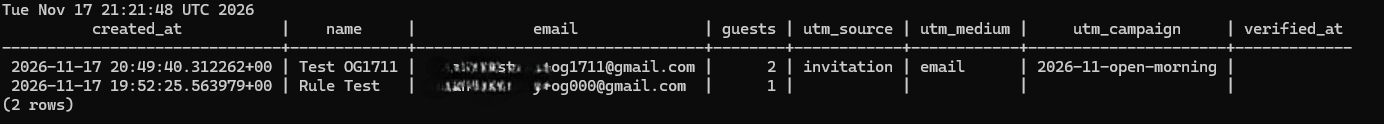
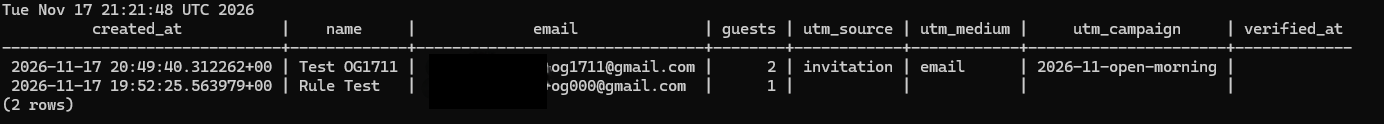
Evidence W7: rows 5, 13, 14; invitations, status email; masking and domain fixes for #107

Changed region(s): [[0.3107, 0.629, 0.4039, 0.75], [0.3107, 0.4839, 0.4039, 0.6048]]

diff --git a/docs/evidence/w7/README.md b/docs/evidence/w7/README.md
@@ -6,7 +6,7 @@
 | 2 | Board and week-start comment | [img/23-board.png](img/23-board.png) (task 27, Tue 17 Nov, before 16:00); [the comment on #114](https://github.com/eitan-dardik/northline-dental-website/issues/114#issuecomment-6945254828) |
 | 3 | Ops log | [#140](https://github.com/eitan-dardik/northline-dental-website/issues/140), one comment each day: Mon 16 Nov 09:12, Tue 17 Nov 10:55, Wed 18 Nov 09:47 (plus the restart notes, 09:43–09:46, #183), Thu 19 Nov 08:24 Israel |
 | 4 | Kit configured, staging, CI | Kit as it came: [PR #150](https://github.com/eitan-dardik/northline-dental-website/pull/150); configured: [22b66db](https://github.com/eitan-dardik/northline-dental-website/commit/22b66db) ([#152](https://github.com/eitan-dardik/northline-dental-website/issues/152)), [diff against the kit](https://github.com/eitan-dardik/northline-dental-website/compare/5b699eb...22b66db); decision record line: [PR #153](https://github.com/eitan-dardik/northline-dental-website/pull/153); staging and CI: [PR #155](https://github.com/eitan-dardik/northline-dental-website/pull/155), [green CI run on `event`](https://github.com/eitan-dardik/northline-dental-website/actions/runs/43943229108); the main site's deploy unchanged; details: [see below](#row-4-kit-configured-staging-ci) |
-| 5 | Releases v0.1.0, v0.2.0, v0.3.0, v1.0.0 | [event-v0.1.0](https://github.com/eitan-dardik/northline-dental-website/releases/tag/event-v0.1.0) (Mon 16 Nov, on `76af798`); [event-v0.2.0](https://github.com/eitan-dardik/northline-dental-website/releases/tag/event-v0.2.0) (Wed 18 Nov, on `b2ea3df`); [event-v0.3.0](https://github.com/eitan-dardik/northline-dental-website/releases/tag/event-v0.3.0) (Wed 18 Nov, on `9dd0aec`). To do: event-v1.0.0 |
+| 5 | Releases v0.1.0, v0.2.0, v0.3.0, v1.0.0 | [event-v0.1.0](https://github.com/eitan-dardik/northline-dental-website/releases/tag/event-v0.1.0) (Mon 16 Nov, on `76af798`); [event-v0.2.0](https://github.com/eitan-dardik/northline-dental-website/releases/tag/event-v0.2.0) (Wed 18 Nov, on `b2ea3df`); [event-v0.3.0](https://github.com/eitan-dardik/northline-dental-website/releases/tag/event-v0.3.0) (Wed 18 Nov, on `9dd0aec`); [event-v1.0.0](https://github.com/eitan-dardik/northline-dental-website/releases/tag/event-v1.0.0) (Thu 19 Nov, production, on `57dd9a8`, with How to undo). Also the main site's v0.7.0 with the banner ([#196](https://github.com/eitan-dardik/northline-dental-website/pull/196), tag `v0.7.0` on `2fa77a8`) |
 | 6 | Migration, rules proof, phone read-back | [the migration](https://github.com/eitan-dardik/northline-dental-website/blob/dev/supabase/migrations/20261117191400_event_registrations.sql) (PR [#185](https://github.com/eitan-dardik/northline-dental-website/pull/185)); insert `201` / read `401`; the row: 22:49:40 Israel, `utm_source invitation`; details: [see below](#row-6-migration-rules-proof-phone-read-back) |
 | 7 | Confirmation, confirm link and deliverability | the confirmation for `+og003`: accepted 12 s after registering, `verified_at` 10:16:00 Israel; details: [see below](#row-7-confirmation-confirm-link-and-deliverability). [email-check.md](email-check.md) (task 35: Gmail and Outlook, both Inbox, SPF/DKIM/DMARC pass). The `+og006` reminder to confirm: sent Thu 19 Nov, 00:05 Israel, 24 h after registering, link not pressed |
 | 8 | Umami events, UTM links, QR | every event from laptop and phone, no token or personal data (0), the confirm view without `t=`; all four links in Umami (`invitation`, `reminder`, `poster`, `website`); the poster QR to Denise at 12:53 ([#114](https://github.com/eitan-dardik/northline-dental-website/issues/114#issuecomment-6976434725)), [img/34-qr.png](img/34-qr.png); the banner ([PR #192](https://github.com/eitan-dardik/northline-dental-website/pull/192)); details: [see below](#row-8-umami-events-utm-links-qr) |
@@ -14,8 +14,8 @@
 | 10 | Screenshots and Denise's approval | six screenshots on [#114, Wed 18 Nov 18:33](https://github.com/eitan-dardik/northline-dental-website/issues/114#issuecomment-6984843417), asking "Can this go live on Thursday?"; Denise's answer: [Yes, it can go live on Thursday](https://github.com/eitan-dardik/northline-dental-website/issues/114#issuecomment-6987822915) (Wed 18 Nov) |
 | 11 | Run of show draft | [RUN-OF-SHOW.md](https://github.com/eitan-dardik/northline-dental-website/blob/dev/docs/event/RUN-OF-SHOW.md) (first draft, Wed 18 Nov, [#194](https://github.com/eitan-dardik/northline-dental-website/pull/194)); in `docs/event` on `dev`, not the event branch (the CEO, [#171](https://github.com/eitan-dardik/northline-dental-website/issues/171)) |
 | 12 | Restore drill and decision brief | [restore.md](restore.md) (backup 09:25 UTC = 11:25 Israel, before the release; `leads` 0 = 0 rows, 8 columns, 1 policy, 2 constraints on both sides); [decision-brief.md](decision-brief.md) (go, written before the merge) |
-| 13 | Production release | To do: times merged, live, checked |
-| 14 | Invitations and status email | To do: invitations.md; status-email.md |
+| 13 | Production release | [PR #195](https://github.com/eitan-dardik/northline-dental-website/pull/195) into `event-main`, approved by the CEO. Thu 19 Nov, Israel: migration on production 19:55 (dry run first: only `20261117191400_event_registrations.sql`); production mailer with `EVENT_URL` 20:14; **merged 20:16**; **on production 20:23** (Hostinger deploy Completed); **checked 20:35** (phone test as `+og006`: registered 20:30:58, confirmation 3 s later, confirm link 20:32:36, Umami events, check-in with the production desk code 20:35:03). Main site: #196 merged 20:48, banner live 20:53, the event page opened from it once (`utm_source=website` in Umami). All inside 16:00–22:00 |
+| 14 | Invitations and status email | [invitations.md](invitations.md) (108 reachable; **106 sent** Thu 23:11 – Fri 00:58; the last 2 (guests 107, 108) refused by Hostinger's sending limit, sent Fri morning; counts only); [status-email.md](status-email.md) (to Denise, [sent on #114](https://github.com/eitan-dardik/northline-dental-website/issues/114#issuecomment-7024116175)) |
 
 **Moved from Week 6** (W6 scorecard on feedback #7, 15 Nov: task 16 to Tue 17, task 14 to Wed 18, task 18 to Thu 19; task 16's time confirmed by the CEO's email of 15 Nov, 23:09: Tue 17, 23:59):
 
@@ -64,7 +64,7 @@
 
 **The main site's deploys** (hPanel, Mon 16 Nov, after the event deploy): production's newest is still `e18483f1` from 8 Nov; northline-stage's newest are the `dev` merges of #154 and #153.
 
-<img width="400" alt="production deployments" src="img/30-main-prod-deploys.png" /> <img width="400" alt="northline-stage deployments" src="img/30-main-stage-deploys.png" />
+<img width="400" alt="production deployments" src="img/30-main-stage-deploys.png" /> <img width="400" alt="northline-stage deployments" src="img/30-main-prod-deploys.png" />
 
 <img width="250" alt="phone: the top of the event page" src="img/30-staging-phone-top.jpg" /> <img width="250" alt="phone: Registration opens soon" src="img/30-staging-phone-soon.jpg" />
 
@@ -140,7 +140,7 @@ $ curl … "https://<staging API>/rest/v1/registrations?select=*"    # read
 
 ## Row 7: confirmation, confirm link and deliverability
 
-**The mailer (task 34, [#165](https://github.com/eitan-dardik/northline-dental-website/issues/165)):** [PR #187](https://github.com/eitan-dardik/northline-dental-website/pull/187) into `dev`. It sends the confirmation to every page registration without one (the kit's query 6) and one reminder to confirm 24 h later if the link was never pressed (query 8), with `registration_emails` as its "already sent" table, claim-first like `lead_emails`. It logs the mail server's reply for each email. Event emails only where `mailer.env` has `EVENT_URL`: on staging since Tue 17 Nov, 23:5x; production on Thursday. Deployed on staging only (staging and production build from the same clone; production not rebuilt).
+**The mailer (task 34, [#165](https://github.com/eitan-dardik/northline-dental-website/issues/165)):** [PR #187](https://github.com/eitan-dardik/northline-dental-website/pull/187) into `dev`. It sends the confirmation to every page registration without one (the kit's query 6) and one reminder to confirm 24 h later if the link was never pressed (query 8), with `registration_emails` as its "already sent" table, claim-first like `lead_emails`. It logs the mail server's reply for each email. Event emails only where `mailer.env` has `EVENT_URL`: on staging since Tue 17 Nov, 23:5x; on production since Thu 19 Nov, 20:14 (rebuilt with `--no-deps`, only the mailer), with the release (row 13).
 
 The mailer's log when it started (Tue 17 Nov; ids only, no personal data):
 
@@ -233,7 +233,7 @@ $ (staging) registrations from the page since 13:00                    →  4
 - **The poster QR** (`poster-qr.png` / `.svg`, made with `npx qrcode -e H` from the poster link): sent to Denise on [#114](https://github.com/eitan-dardik/northline-dental-website/issues/114#issuecomment-6976434725) at **12:53**, before her poster prints.
 - **The test:** a second QR from the same link with the staging address, scanned from about 1 m: the page opened with `utm_source=poster&utm_medium=qr`, and the registrations were stored under `poster`.
 - **In Umami:** `invitation`, `reminder` and `poster` (table above), and `website` from the banner (below).
-- **The banner** ([PR #192](https://github.com/eitan-dardik/northline-dental-website/pull/192)): one line under the main site's menu, on every page: "Open Morning, Tue 24 Nov: free smile checks. Register →", linking to the event page with the website tags. Its address comes from a build setting, `VITE_EVENT_URL`, set only on the staging site for now; production gets it after event-v1.0.0. Hidden once the event starts. Lighthouse (mobile, localhost): accessibility 100. Clicked on staging, Wed 18 Nov:
+- **The banner** ([PR #192](https://github.com/eitan-dardik/northline-dental-website/pull/192)): one line under the main site's menu, on every page: "Open Morning, Tue 24 Nov: free smile checks. Register →", linking to the event page with the website tags. Its address comes from a build setting, `VITE_EVENT_URL`, on staging since Wed 18 Nov; on production since Thu 19 Nov, 20:53, after event-v1.0.0 (row 13). Hidden once the event starts. Lighthouse (mobile, localhost): accessibility 100. Clicked on staging, Wed 18 Nov:
 
 ```
   israel  | url_path |                               url_query                                | utm_source
@@ -266,7 +266,7 @@ $ query 4 (staging)
 | Guest 2, a group of 2 | **35 s**: "Checked in: Test. Group of 2." Over the 30 s target: typing a long email on a phone keyboard. On the day the desk types from the printed list, on a tablet or laptop if they have one |
 | A walk-up (no email, new patient) | **34 s**, counted |
 | The page's count against query 3 | "3 of 11 registered · 1 walk-up" = registered 11, arrived 3, walk-ups 1 |
-| Found | the desk code set on Tue didn't match my password manager (likely a paste error into `read -rs`, which hides what's pasted). Set again with a length check (17 characters); the same check for production on Thursday |
+| Found | the desk code set on Tue didn't match my password manager (likely a paste error into `read -rs`, which hides what's pasted). Set again with a length check (17 characters); the production code (a different one) was set on Thu 19 Nov with the same check (23 characters) |
 
 ```
 $ query 3 (staging)

diff --git a/docs/evidence/w7/invitations.md b/docs/evidence/w7/invitations.md
@@ -1,0 +1,65 @@
+# Invitations: the Open Morning (W7 task 46, #175)
+
+Thu 19 – Fri 20 Nov 2026, Israel time (Toronto is 7 hours behind). Counts only: no names and no addresses in this file.
+
+## The counts
+
+| | |
+|---|---|
+| Reachable contacts ([LIST-CHECK.md](https://github.com/eitan-dardik/northline-dental-website/blob/dev/docs/event/LIST-CHECK.md)) | **108** |
+| Sent (accepted by the mail server, `250 2.0.0 OK`) | **106** of 108 |
+| Arrived (counted in the receiving mailbox) | **101** counted at 00:05 (guests 1–101, all in the Inbox; guest 081 arrived about 30 min after it was sent); 102–106 were sent after that count |
+| Not sent yet | **2**: guests **107, 108**, refused by Hostinger's sending limit (`451 4.7.1 Ratelimit "hostinger_out_ratelimit" exceeded`); a `451` means the email was never sent, so nobody gets a duplicate. They go out on Fri 20 Nov, in the morning |
+| Failed for any other reason | 0 |
+| Sent to an `example.com` address, or with a `+og` tag | 0 (the script refuses both) |
+
+## When
+
+| Run | Guests | Israel | Result |
+|---|---|---|---|
+| First try | 1–5 | Thu 23:09 | refused by the mail server **before sending**: I had mistyped my own address (`504 5.5 … need fully-qualified address`); 0 sent |
+| First batch | 1–5 | Thu 23:11:45–23:11:58 | 5 sent; all 5 in the Inbox; the **Save your place** button of `+guest001` opened the live page, and Umami counted the view (23:14:40) |
+| Second batch | 6–55 | Thu 23:17:19–23:21:41 | 50 sent, 0 failed |
+| Third batch | 56–108 | Thu 23:23:30–23:28:07 | 46 sent (56–101); 102–108 refused from 23:27:36: Hostinger's sending limit, after about 100 emails |
+| Retry | 102 | Thu 23:41:14 | sent |
+| Retry | 103–108 | Fri 00:02 | 103 sent; 104–108 refused |
+| Retry | 104–108, 3 min apart | Fri 00:08–00:21 | 105 sent (00:11:52); 104, 106, 107, 108 refused |
+| Retry | 104, then 106, 107, 108 one by one | Fri 00:30 | 104 sent; 106, 107, 108 refused |
+| Retry | 106, 107, 108 one by one | Fri 00:58 | 106 sent; 107, 108 refused |
+
+**Delay notices:** on #175 and to the CEO on Telegram, before 23:59 and again after 00:15, each with the new time.
+
+## How they were sent
+
+- **After v1.0.0 was live and checked** on production (20:35), as the workbook asks.
+- **The text Denise approved:** EMAILS.md email 1, word for word ([#114](https://github.com/eitan-dardik/northline-dental-website/issues/114), Tue 17 Nov), with "Hi `<first name>`" and the **Save your place** button.
+- **The link:** the invitation link from MEASURE.md, `https://event.holistech.tech/?utm_source=invitation&utm_medium=email&utm_campaign=2026-11-open-morning`.
+- **One invitation per reachable contact,** guest 1 to 108 in LIST-CHECK.md's order, each **to my own address with its guest tag** (`+guest001` … `+guest108`), never to a real contact and never to `example.com`.
+- **A first batch of five,** checked in the Inbox with the link opened, then the rest in two batches, 5 s apart.
+
+### The script
+
+A one-off Node.js script, `invite.mjs` (about 120 lines), run **inside the production mailer's container** (`northline-prod-mailer-1`) with `docker exec`. That way it uses the mailer's own sender, mail server and settings (`mailer.env`): the same sender whose SPF, DKIM and DMARC passed in task 35 ([email-check.md](email-check.md)). The mailer itself doesn't send invitations: it only emails people who already registered (rows in `registrations`), and by design no table holds invited people (MEASURE.md).
+
+- **Input:** `names.csv`, one line per reachable contact: the guest number and the **first name only** (no emails, no surnames), for "Hi `<first name>`".
+- **Chosen at run time, never in the file:** the destination address (`INVITE_TO`), the batch (first and last guest number) and the pause between emails (`PAUSE_MS`).
+- **Safety checks:** it refuses `example.com` and an address that already has a `+tag` (so a `+og` test tag can't slip in); a dry run first prints the batch size and the link and sends nothing.
+- **The log:** one line per email with the guest number and the mail server's reply, never a name or an address; at the end, `done: N sent, N failed`. An email counts as sent only when the server accepted it.
+- **Where:** in `~/invite/` on the VPS (`chmod 600`) and in the container's `/app` for the runs. They stay until the last 2 are sent, then both copies and `names.csv` are deleted (on the server and on my PC).
+
+### Why my Gmail, not a mailbox on our domain
+
+I first tried a mailbox on our own domain (`guests@holistech.tech`), to keep 108 test emails out of my personal inbox. A test to `guests+test@holistech.tech` bounced: `550 5.1.1 Recipient address rejected: User unknown in virtual mailbox table`. Our mail host doesn't accept `+tag` addresses, so `+guest001` … `+guest108` would all have bounced. Gmail accepts them (every `+og` test this week arrived), so the invitations went to my Gmail with the guest tags, as the workbook asks.
+
+## Found
+
+- **Hostinger limits how many emails one account sends:** about 100 in an hour, and after that it frees up more slowly than one per minute. Every `451` was refused before sending, so no guest got two.
+- **The production mailer sends from the same account**, so while the limit is reached, a guest's confirmation can wait too (the mailer tries 3 times, then waits for a restart). Checked at 00:00: the only registration on production is my `+og006` test, and it has its confirmation; no guest was affected.
+- **For Monday's reminders (task 50) and Wednesday's follow-ups:** fewer than 100 emails each, but the reminder must not run in the same hour as anything else from that account. Before Monday: ask Hostinger for the exact limit, or send in batches with a longer pause.
+- **Gmail delays:** guest 081 arrived about 30 minutes after the server accepted it (as on Tuesday, a delay after our server).
+
+## Proof
+
+- The script's output, per run (the table above): `done: 5 sent, 0 failed, of 5` · `done: 50 sent, 0 failed, of 50` · `done: 46 sent, 7 failed, of 53` · `done: 1 sent, 0 failed, of 1` · `done: 1 sent, 5 failed, of 6` · `done: 1 sent, 4 failed, of 5` · 00:30: 104 sent; 106, 107, 108 refused · 00:58: 106 sent; 107, 108 refused.
+- Gmail, conversation view off, `in:anywhere subject:"You're invited: Northline Open Morning"`: 100, then 101 when guest 081 arrived (00:05).
+- Umami (`Open Morning – production`): the view from the first invitation's button, 23:14:40.

diff --git a/docs/evidence/w7/email-check.md b/docs/evidence/w7/email-check.md
@@ -1,19 +1,19 @@
 # Email check: confirmation, Wed 18 Nov
 
-Task 35 ([#166](https://github.com/eitan-dardik/northline-dental-website/issues/166)). The Open Morning confirmation email (the "Confirmation" text in [EMAILS.md](https://github.com/eitan-dardik/northline-dental-website/blob/dev/docs/event/EMAILS.md), as Denise approved it), sent by my mailer on staging ([PR #187](https://github.com/eitan-dardik/northline-dental-website/pull/187)) through Hostinger's mail server, to two providers. Israel time unless marked UTC. The sending domain is written `<domain>` here.
+Task 35 ([#166](https://github.com/eitan-dardik/northline-dental-website/issues/166)). The Open Morning confirmation email (the "Confirmation" text in [EMAILS.md](https://github.com/eitan-dardik/northline-dental-website/blob/dev/docs/event/EMAILS.md), as Denise approved it), sent by my mailer on staging ([PR #187](https://github.com/eitan-dardik/northline-dental-website/pull/187)) through Hostinger's mail server, to two providers. Israel time unless marked UTC.
 
 ## The records (from dig, on the server)
 
 - SPF: `v=spf1 include:_spf.mail.hostinger.com ~all`
-- DKIM (selector `hostingermail-a`, from the `s=` of a received email): present (`hostingermail-a._domainkey.<domain>` points to Hostinger's key, `v=DKIM1; k=rsa; p=MIIB…`)
+- DKIM (selector `hostingermail-a`, from the `s=` of a received email): present (`hostingermail-a._domainkey.holistech.tech` points to Hostinger's key, `v=DKIM1; k=rsa; p=MIIB…`)
 - DMARC: `v=DMARC1; p=none`
 
 ```
-$ dig +short TXT <domain> | grep -i spf
+$ dig +short TXT holistech.tech | grep -i spf
 "v=spf1 include:_spf.mail.hostinger.com ~all"
-$ dig +short TXT _dmarc.<domain>
+$ dig +short TXT _dmarc.holistech.tech
 "v=DMARC1; p=none"
-$ dig +short TXT hostingermail-a._domainkey.<domain> | cut -c1-80
+$ dig +short TXT hostingermail-a._domainkey.holistech.tech | cut -c1-80
 hostingermail-a.dkim.mail.hostinger.com.
 "v=DKIM1;k=rsa;p=MIIBIjANBgkqhkiG9w0BAQEFAAOCAQ8AMIIBCgKCAQEAs+RijpkYCOFcf5HdHXc
 ```
@@ -36,4 +36,4 @@ Each test is one registration on the staging page (PC, private window), so the m
 
 <img width="600" alt="Outlook: both confirmations in the Inbox, 11:15 and 11:19" src="img/35-outlook-inbox.png" />
 
-**p=none means:** the receiving server only reports a failed DMARC check to us; it still delivers the email, so a forged email from `<domain>` that fails DMARC can still reach the inbox. A stricter policy (`quarantine`, then `reject`) would stop it; that's a later change, after the event, once the reports show only our own mail passing.
+**p=none means:** the receiving server only reports a failed DMARC check to us; it still delivers the email, so a forged email from `holistech.tech` that fails DMARC can still reach the inbox. A stricter policy (`quarantine`, then `reject`) would stop it; that's a later change, after the event, once the reports show only our own mail passing.

diff --git a/docs/evidence/w7/incident-review.md b/docs/evidence/w7/incident-review.md
@@ -35,7 +35,7 @@ The checks depended only on me remembering to run them by hand, with no reminder
 | # | Action | Owner | By |
 |---|---|---|---|
 | 1 | A phone alarm for every check, set before the shift starts | Eitan | Tue 24 Nov, before 17:00 (the event, task 57: a line every 15 min, 17:00–19:00) |
-| 2 | An automatic check (monitoring bot) on the VPS: the four sites, the containers and the backups every 5 minutes, a Telegram message when a check fails, and a morning status message ([#182](https://github.com/eitan-dardik/northline-dental-website/issues/182)). A time estimate on its card before any code | Eitan | Tue 24 Nov |
-| 3 | Restart the server for the waiting kernel update ("System restart required" since Sun 15 Nov), in the window the CEO set on [#140](https://github.com/eitan-dardik/northline-dental-website/issues/140): Wed 18 Nov, 08:00–10:00 Israel, after the nightly backup. Before: the start time on #140. After: all 17 containers up, the backup cron in place, the four sites answering 200, the end time on #140 | Eitan | Wed 18 Nov, 10:00 |
+| 2 | An automatic check (monitoring bot) on the VPS: the four sites, the containers and the backups every 5 minutes, a Telegram message when a check fails, and a morning status message ([#182](https://github.com/eitan-dardik/northline-dental-website/issues/182)). A time estimate on its card before any code: 5 h, approved on Telegram Wed 18 Nov, 22:43; work day Sun 22 Nov | Eitan | Tue 24 Nov |
+| 3 | Restart the server for the waiting kernel update ("System restart required" since Sun 15 Nov), in the window the CEO set on [#140](https://github.com/eitan-dardik/northline-dental-website/issues/140): Wed 18 Nov, 08:00–10:00 Israel, after the nightly backup. Before: the start time on #140. After: all 17 containers up, the backup cron in place, the four sites answering 200, the end time on #140. **Done Wed 18 Nov, 09:43–09:46**, notes on #140 ([#183](https://github.com/eitan-dardik/northline-dental-website/issues/183)) | Eitan | Wed 18 Nov, 10:00 |
 
 **Known gap, no work this week:** the nightly backup is kept on the VPS only; a copy outside the VPS comes later (the CEO, #149). Written in RUNBOOK.md as a known gap.

diff --git a/docs/evidence/w7/status-email.md b/docs/evidence/w7/status-email.md
@@ -2,7 +2,7 @@ Subject: Open Morning: status, Thu 19 Nov
 
 Hi Denise,
 
-- **Done:** The Open Morning page is live, with the screenshots you approved yesterday. Guests can sign up, they get a confirmation email within a minute, and the check-in page for your front desk works (I tested all of it from my phone this afternoon). The invitations are going out to all 108 people on your list who can be emailed: 102 went out this afternoon, your time, and the last 6 go out early this evening, because our email provider limits how many emails we can send in one hour. The QR code for your poster leads to the same page.
+- **Done:** The Open Morning page is live, with the screenshots you approved yesterday. Guests can sign up, they get a confirmation email within a minute, and the check-in page for your front desk works (I tested all of it from my phone this afternoon). The invitations went out this afternoon and this evening, your time: 105 of the 108 people on your list who can be emailed have theirs. The last 3 go out tomorrow (Friday) morning, because our email provider limits how many emails we can send in one hour. The QR code for your poster leads to the same page.
 - **In progress:** Nothing is waiting on our side. I keep an eye on the sign-ups every day and will tell you the numbers on Monday.
 - **Next week:**
   - **Monday 23 Nov, 8:00 your time:** a short reminder email to everyone who signed up, with the address, the parking and the number to call if they can't come.
@@ -19,3 +19,7 @@ Next update: Monday 23 Nov, at our 9:00 call.
 
 Thanks,
 Eitan
+
+---
+
+Sent on #114: https://github.com/eitan-dardik/northline-dental-website/issues/114#issuecomment-7024116175, Fri 20 Nov, 00:36 Israel (Thu, her evening).
